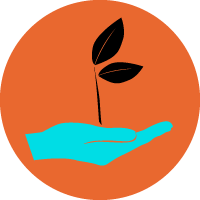
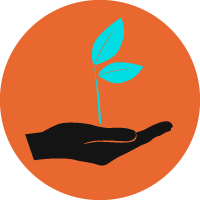
a few more styles

Changed region(s): [[0.12, 0.09, 0.87, 0.84]]

diff --git a/style/style.css b/style/style.css
@@ -50,7 +50,7 @@ ul {padding-left: 0;}
 
 /* Footer */
 .social-icon {width:40px; height: 40px; border-radius:25px; border:2px solid black; background-color:white; margin: 0 10px; cursor:pointer; display: -ms-flexbox; -ms-flex-pack: center; -ms-flex-align: center; display: flex; justify-content: center; align-items: center;}
-.social-icon:hover {background-color:#00dde5;; border: 2px solid #00dde5;;}
+.social-icon:hover {background-color:#00dde5;; border: 2px solid #00dde5;}
 .footer {width:100%; background-color:black; padding:20px 0; border-bottom: 30px solid white; text-align:center;}
 .footer-logo {padding:20px;}
 
@@ -58,11 +58,12 @@ ul {padding-left: 0;}
 .site-logo {position:relative; cursor:pointer; padding: 10px 0;}
 .splash-container {position:relative;}
 .splash-text {position:relative; text-align:center; background-color: #e9682f; color:white; width:100%;}
-.home-splash {border-bottom: 6px solid #e9682f;}
+.home-splash {border-bottom: 6px solid #00dde5;}
+.summary-text {margin: 0; padding:20px;}
 .brain-container {text-align:center; background-color:black; vertical-align:top; padding:20px;}
 .brain-splash {width:200px; height:auto; padding:40px 0;}
 .mobile-white-bottom {border-bottom: 7px solid white;}
-.philosophy {background-color:#00dde5;}
+.philosophy {background-color:#e9682f;}
 
 .services-container {max-width:1000px; margin:0 auto; padding:20px;}
 .service {padding:20px; text-align:center; display:inline-block; vertical-align: top;}
@@ -136,13 +137,14 @@ ul {padding-left: 0;}
 
   /* Home */
   .home-splash {display:block;}
+  .summary-text {margin: 0; padding:50px;}
   .event-thumbnail {width:100%;}
   .event {padding-bottom: 0;}
   .mobile-white-bottom {border-bottom:0;}
   .red-header {font-size: 40px;}
   .red-triangle {display:inline-block;}
   .title-container {text-align:left;}
-  .splash-text {position:absolute; bottom:20%; background-color:rgba(255, 255, 255, 0.5); color:black;}
+  .splash-text {position:absolute; bottom:0; background-color:rgba(255, 255, 255, 0.5); color:black;}
   .service-page {display:block;}
 
   /* Contact */

diff --git a/src/components/home.js b/src/components/home.js
@@ -73,7 +73,7 @@ class Home extends Component {
         <div>
           <div className="splash-container">
             <img className='page-splash home-splash' src='../images/singSplash.jpg'/>
-            <div className='splash-text'><h3 className="pad-20 no-margin">Some great summary text about Area Twenty-Two</h3></div>
+            <div className='splash-text'><h3 className="summary-text">Some great summary text about Area Twenty-Two</h3></div>
             </div>
         <div>
           <div className="services-container">

diff --git a/src/components/humanity.js b/src/components/humanity.js
@@ -11,7 +11,7 @@ class Humanity extends Component {
       <div>
         <img className="page-splash" src="/images/humanitySplash.jpg" />
         <div className="col-1-4 center-me">
-          <h3 className="center-me red">Development</h3>
+          <h3 className="center-me red">Humanity</h3>
           <img className="service-page" src='../images/communityIcon.png'/>
         </div>
         <div className="col-3-4">

diff --git a/src/components/blocks/header.js b/src/components/blocks/header.js
@@ -11,7 +11,15 @@ class Header extends Component {
     }
   }
 
+  componentDidMount(){
+    var mainBody = document.querySelector('.main-body');
+    console.log(mainBody)
+    mainBody.addEventListener('click', this.bodyClick.bind(this));
+  }
 
+  bodyClick(){
+    this.setState({menuVisible: false})
+  }
 
   handleClick(){
     this.setState({menuVisible: !this.state.menuVisible})

diff --git a/src/components/app.js b/src/components/app.js
@@ -7,9 +7,11 @@ export default class App extends Component {
   render() {
     return (
       <div>
-      <Header/>
-      {this.props.children}
-      <Footer/>
+        <Header/>
+        <div className="main-body">
+          {this.props.children}
+        </div>
+        <Footer/>
       </div>
     );
   }
